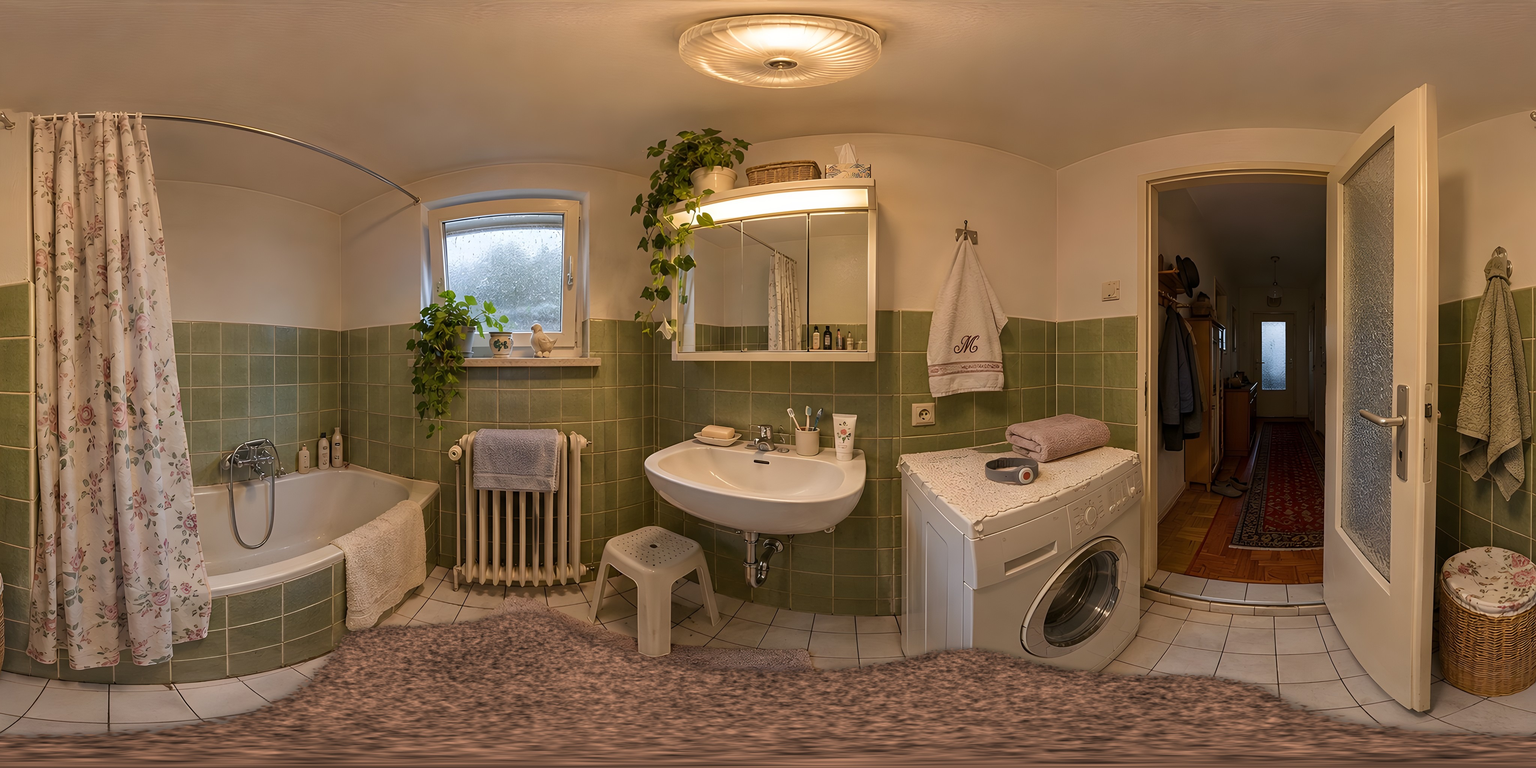
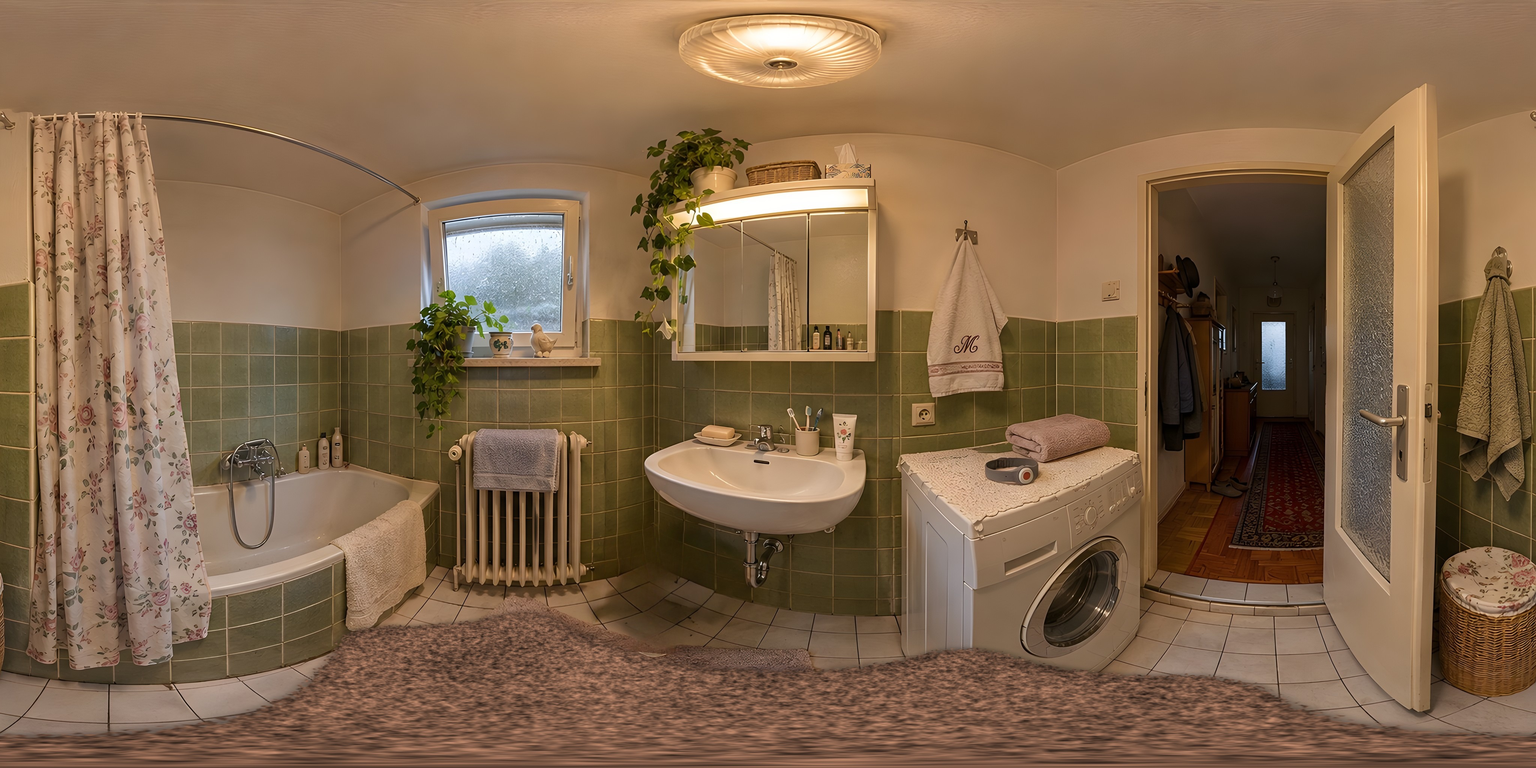
Bad: zweiten Hocker entfernt, Frau Engel mit Hocker frei vor dem Heizkörper
Claude-Session: https://claude.ai/code/session_018xz3hR1CffNQymSRTgJLxV

Changed region(s): [[0.375, 0.6875, 0.4688, 0.875]]

diff --git a/engel/spiel.html b/engel/spiel.html
@@ -65,7 +65,7 @@ const loadImg = src => new Promise((r, f) => { const i = new Image(); i.crossOri
 const rooms = {};
 async function buildRoom(name) {
   if (rooms[name]) return rooms[name];
-  const BILD_V = { bad: 2 };
+  const BILD_V = { bad: 3 };
   const [photo, depth] = await Promise.all([loadImg(name + '360.jpg?v=' + (BILD_V[name] || 1)), loadImg(name + '360_tiefe.png')]);
   const dc = document.createElement('canvas'); dc.width = depth.width; dc.height = depth.height;
   const dx = dc.getContext('2d'); dx.drawImage(depth, 0, 0); const dd = dx.getImageData(0, 0, dc.width, dc.height).data;
@@ -592,7 +592,7 @@ const BAD_DINGE = [
 async function szene7() {
   // Im Bad: Intimsphäre, Kälte, Selbstständigkeit, Notruf
   const bad = await buildRoom('bad');
-  if (!bad.engel) bad.engel = addBild(bad, { u: 0.46, v: 0.6, hfov: 95, aspect: 16 / 9, src: 'figur/engel_bad_sitz.png?v=4', cx: 564, cy: 755, w: 946, h: 1370 });
+  if (!bad.engel) bad.engel = addBild(bad, { u: 0.46, v: 0.6, hfov: 95, aspect: 16 / 9, src: 'figur/engel_bad_sitz.png?v=5', cx: 1004, cy: 875.5, w: 946, h: 1471 });
   await goRoom('bad', 0.47, STAND, 0.3); hotspots = BAD_DINGE;
   const strasse = playTon('sfx_strasse', 0.35, true);
   let fensterZu = false, tuerZu = false, warm = false;
